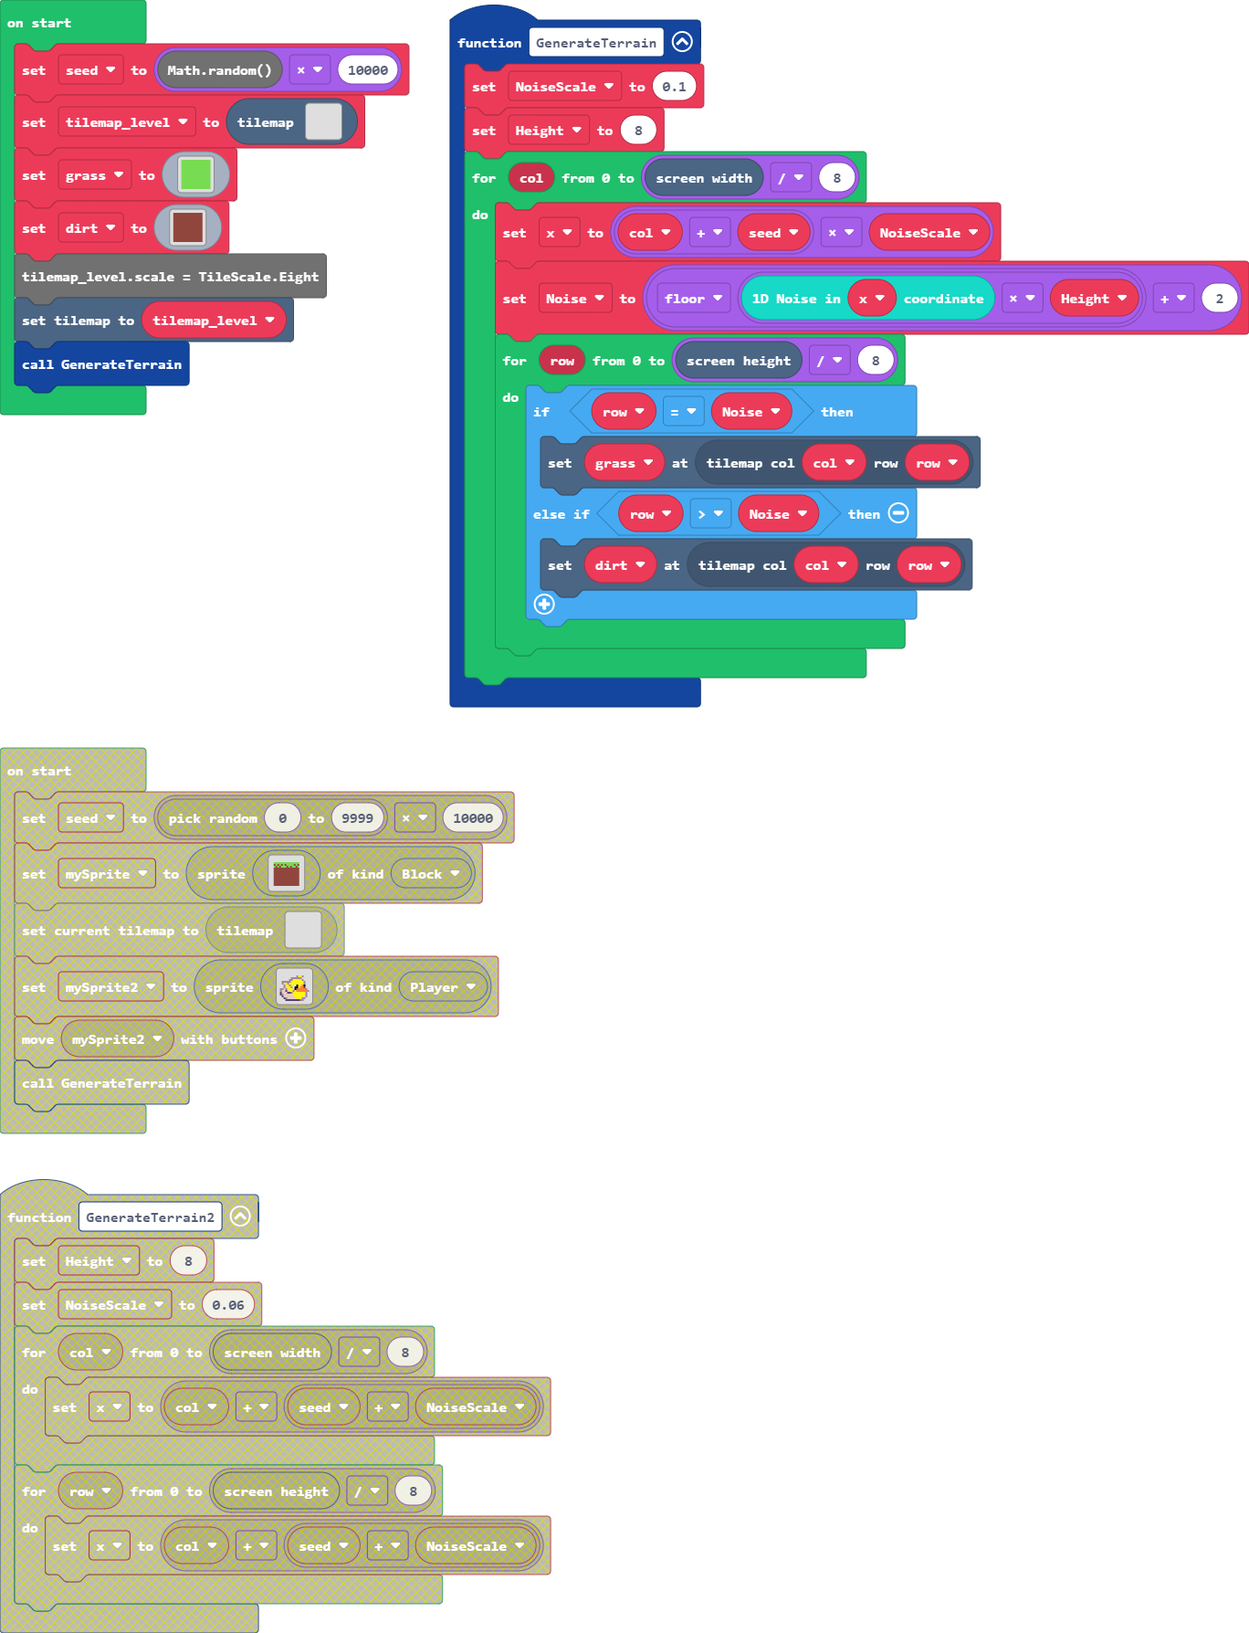
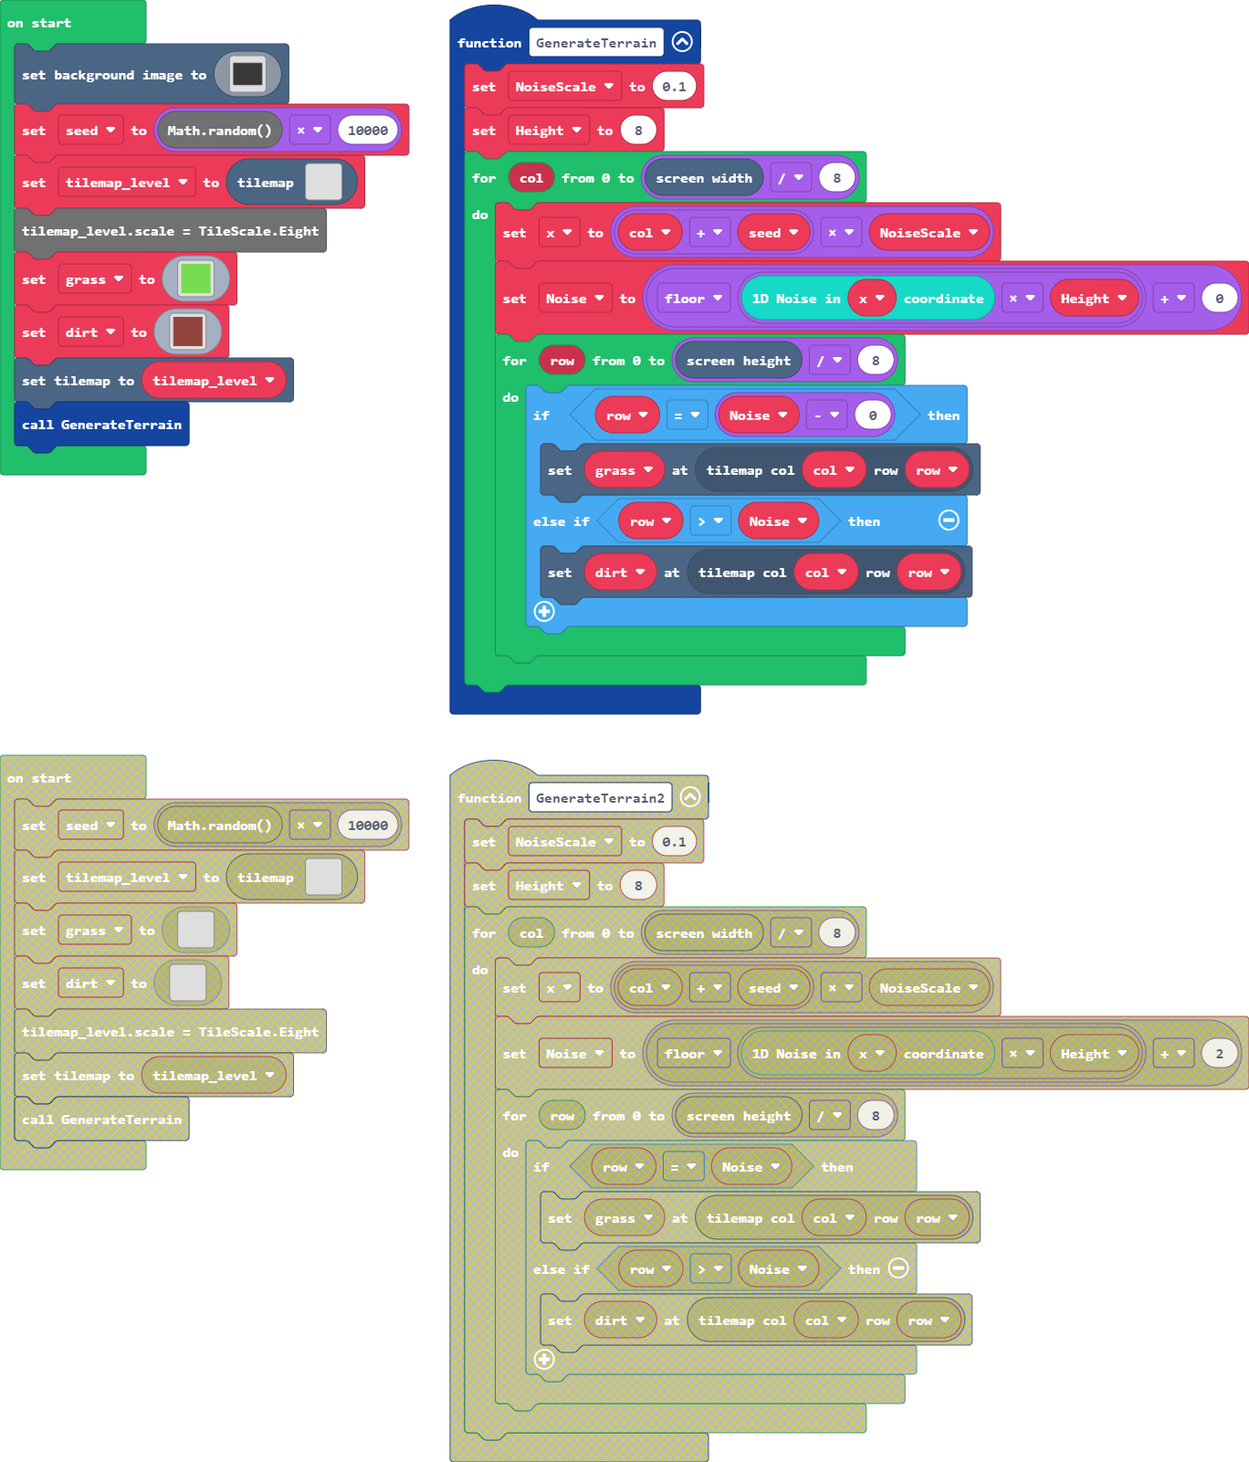
Nothing Done yet. Still some glitches

diff --git a/main.ts b/main.ts
@@ -6,9 +6,9 @@ function GenerateTerrain () {
     Height = 8
     for (let col = 0; col <= scene.screenWidth() / 8; col++) {
         x = (col + seed) * NoiseScale
-        Noise = Math.floor(perlinNoise.noise1d(x) * Height) + 2
+        Noise = Math.floor(perlinNoise.noise1d(x) * Height) + 0
         for (let row = 0; row <= scene.screenHeight() / 8; row++) {
-            if (row == Noise) {
+            if (row == Noise - 0) {
                 tiles.setTileAt(tiles.getTileLocation(col, row), grass)
             } else if (row > Noise) {
                 tiles.setTileAt(tiles.getTileLocation(col, row), dirt)
@@ -23,25 +23,140 @@ let NoiseScale = 0
 let dirt: Image = null
 let grass: Image = null
 let seed = 0
+scene.setBackgroundImage(img`
+    ffffffffffffffffffffffffffffffffffffffffffffffffffffffffffffffffffffffffffffffffffffffffffffffffffffffffffffffffffffffffffffffffffffffffffffffffffffffffffffffff
+    ffffffffffffffffffffffffffffffffffffffffffffffffffffffffffffffffffffffffffffffffffffffffffffffffffffffffffffffffffffffffffffffffffffffffffffffffffffffffffffffff
+    ffffffffffffffffffffffffffffffffffffffffffffffffffffffffffffffffffffffffffffffffffffffffffffffffffffffffffffffffffffffffffffffffffffffffffffffffffffffffffffffff
+    ffffffffffffffffffffffffffffffffffffffffffffffffffffffffffffffffffffffffffffffffffffffffffffffffffffffffffffffffffffffffffffffffffffffffffffffffffffffffffffffff
+    ffffffffffffffffffffffffffffffffffffffffffffffffffffffffffffffffffffffffffffffffffffffffffffffffffffffffffffffffffffffffffffffffffffffffffffffffffffffffffffffff
+    ffffffffffffffffffffffffffffffffffffffffffffffffffffffffffffffffffffffffffffffffffffffffffffffffffffffffffffffffffffffffffffffffffffffffffffffffffffffffffffffff
+    ffffffffffffffffffffffffffffffffffffffffffffffffffffffffffffffffffffffffffffffffffffffffffffffffffffffffffffffffffffffffffffffffffffffffffffffffffffffffffffffff
+    ffffffffffffffffffffffffffffffffffffffffffffffffffffffffffffffffffffffffffffffffffffffffffffffffffffffffffffffffffffffffffffffffffffffffffffffffffffffffffffffff
+    ffffffffffffffffffffffffffffffffffffffffffffffffffffffffffffffffffffffffffffffffffffffffffffffffffffffffffffffffffffffffffffffffffffffffffffffffffffffffffffffff
+    ffffffffffffffffffffffffffffffffffffffffffffffffffffffffffffffffffffffffffffffffffffffffffffffffffffffffffffffffffffffffffffffffffffffffffffffffffffffffffffffff
+    ffffffffffffffffffffffffffffffffffffffffffffffffffffffffffffffffffffffffffffffffffffffffffffffffffffffffffffffffffffffffffffffffffffffffffffffffffffffffffffffff
+    ffffffffffffffffffffffffffffffffffffffffffffffffffffffffffffffffffffffffffffffffffffffffffffffffffffffffffffffffffffffffffffffffffffffffffffffffffffffffffffffff
+    ffffffffffffffffffffffffffffffffffffffffffffffffffffffffffffffffffffffffffffffffffffffffffffffffffffffffffffffffffffffffffffffffffffffffffffffffffffffffffffffff
+    ffffffffffffffffffffffffffffffffffffffffffffffffffffffffffffffffffffffffffffffffffffffffffffffffffffffffffffffffffffffffffffffffffffffffffffffffffffffffffffffff
+    ffffffffffffffffffffffffffffffffffffffffffffffffffffffffffffffffffffffffffffffffffffffffffffffffffffffffffffffffffffffffffffffffffffffffffffffffffffffffffffffff
+    ffffffffffffffffffffffffffffffffffffffffffffffffffffffffffffffffffffffffffffffffffffffffffffffffffffffffffffffffffffffffffffffffffffffffffffffffffffffffffffffff
+    ffffffffffffffffffffffffffffffffffffffffffffffffffffffffffffffffffffffffffffffffffffffffffffffffffffffffffffffffffffffffffffffffffffffffffffffffffffffffffffffff
+    ffffffffffffffffffffffffffffffffffffffffffffffffffffffffffffffffffffffffffffffffffffffffffffffffffffffffffffffffffffffffffffffffffffffffffffffffffffffffffffffff
+    ffffffffffffffffffffffffffffffffffffffffffffffffffffffffffffffffffffffffffffffffffffffffffffffffffffffffffffffffffffffffffffffffffffffffffffffffffffffffffffffff
+    ffffffffffffffffffffffffffffffffffffffffffffffffffffffffffffffffffffffffffffffffffffffffffffffffffffffffffffffffffffffffffffffffffffffffffffffffffffffffffffffff
+    ffffffffffffffffffffffffffffffffffffffffffffffffffffffffffffffffffffffffffffffffffffffffffffffffffffffffffffffffffffffffffffffffffffffffffffffffffffffffffffffff
+    ffffffffffffffffffffffffffffffffffffffffffffffffffffffffffffffffffffffffffffffffffffffffffffffffffffffffffffffffffffffffffffffffffffffffffffffffffffffffffffffff
+    ffffffffffffffffffffffffffffffffffffffffffffffffffffffffffffffffffffffffffffffffffffffffffffffffffffffffffffffffffffffffffffffffffffffffffffffffffffffffffffffff
+    ffffffffffffffffffffffffffffffffffffffffffffffffffffffffffffffffffffffffffffffffffffffffffffffffffffffffffffffffffffffffffffffffffffffffffffffffffffffffffffffff
+    ffffffffffffffffffffffffffffffffffffffffffffffffffffffffffffffffffffffffffffffffffffffffffffffffffffffffffffffffffffffffffffffffffffffffffffffffffffffffffffffff
+    ffffffffffffffffffffffffffffffffffffffffffffffffffffffffffffffffffffffffffffffffffffffffffffffffffffffffffffffffffffffffffffffffffffffffffffffffffffffffffffffff
+    ffffffffffffffffffffffffffffffffffffffffffffffffffffffffffffffffffffffffffffffffffffffffffffffffffffffffffffffffffffffffffffffffffffffffffffffffffffffffffffffff
+    ffffffffffffffffffffffffffffffffffffffffffffffffffffffffffffffffffffffffffffffffffffffffffffffffffffffffffffffffffffffffffffffffffffffffffffffffffffffffffffffff
+    ffffffffffffffffffffffffffffffffffffffffffffffffffffffffffffffffffffffffffffffffffffffffffffffffffffffffffffffffffffffffffffffffffffffffffffffffffffffffffffffff
+    ffffffffffffffffffffffffffffffffffffffffffffffffffffffffffffffffffffffffffffffffffffffffffffffffffffffffffffffffffffffffffffffffffffffffffffffffffffffffffffffff
+    ffffffffffffffffffffffffffffffffffffffffffffffffffffffffffffffffffffffffffffffffffffffffffffffffffffffffffffffffffffffffffffffffffffffffffffffffffffffffffffffff
+    ffffffffffffffffffffffffffffffffffffffffffffffffffffffffffffffffffffffffffffffffffffffffffffffffffffffffffffffffffffffffffffffffffffffffffffffffffffffffffffffff
+    ffffffffffffffffffffffffffffffffffffffffffffffffffffffffffffffffffffffffffffffffffffffffffffffffffffffffffffffffffffffffffffffffffffffffffffffffffffffffffffffff
+    ffffffffffffffffffffffffffffffffffffffffffffffffffffffffffffffffffffffffffffffffffffffffffffffffffffffffffffffffffffffffffffffffffffffffffffffffffffffffffffffff
+    ffffffffffffffffffffffffffffffffffffffffffffffffffffffffffffffffffffffffffffffffffffffffffffffffffffffffffffffffffffffffffffffffffffffffffffffffffffffffffffffff
+    ffffffffffffffffffffffffffffffffffffffffffffffffffffffffffffffffffffffffffffffffffffffffffffffffffffffffffffffffffffffffffffffffffffffffffffffffffffffffffffffff
+    ffffffffffffffffffffffffffffffffffffffffffffffffffffffffffffffffffffffffffffffffffffffffffffffffffffffffffffffffffffffffffffffffffffffffffffffffffffffffffffffff
+    ffffffffffffffffffffffffffffffffffffffffffffffffffffffffffffffffffffffffffffffffffffffffffffffffffffffffffffffffffffffffffffffffffffffffffffffffffffffffffffffff
+    ffffffffffffffffffffffffffffffffffffffffffffffffffffffffffffffffffffffffffffffffffffffffffffffffffffffffffffffffffffffffffffffffffffffffffffffffffffffffffffffff
+    ffffffffffffffffffffffffffffffffffffffffffffffffffffffffffffffffffffffffffffffffffffffffffffffffffffffffffffffffffffffffffffffffffffffffffffffffffffffffffffffff
+    ffffffffffffffffffffffffffffffffffffffffffffffffffffffffffffffffffffffffffffffffffffffffffffffffffffffffffffffffffffffffffffffffffffffffffffffffffffffffffffffff
+    ffffffffffffffffffffffffffffffffffffffffffffffffffffffffffffffffffffffffffffffffffffffffffffffffffffffffffffffffffffffffffffffffffffffffffffffffffffffffffffffff
+    ffffffffffffffffffffffffffffffffffffffffffffffffffffffffffffffffffffffffffffffffffffffffffffffffffffffffffffffffffffffffffffffffffffffffffffffffffffffffffffffff
+    ffffffffffffffffffffffffffffffffffffffffffffffffffffffffffffffffffffffffffffffffffffffffffffffffffffffffffffffffffffffffffffffffffffffffffffffffffffffffffffffff
+    ffffffffffffffffffffffffffffffffffffffffffffffffffffffffffffffffffffffffffffffffffffffffffffffffffffffffffffffffffffffffffffffffffffffffffffffffffffffffffffffff
+    ffffffffffffffffffffffffffffffffffffffffffffffffffffffffffffffffffffffffffffffffffffffffffffffffffffffffffffffffffffffffffffffffffffffffffffffffffffffffffffffff
+    ffffffffffffffffffffffffffffffffffffffffffffffffffffffffffffffffffffffffffffffffffffffffffffffffffffffffffffffffffffffffffffffffffffffffffffffffffffffffffffffff
+    ffffffffffffffffffffffffffffffffffffffffffffffffffffffffffffffffffffffffffffffffffffffffffffffffffffffffffffffffffffffffffffffffffffffffffffffffffffffffffffffff
+    ffffffffffffffffffffffffffffffffffffffffffffffffffffffffffffffffffffffffffffffffffffffffffffffffffffffffffffffffffffffffffffffffffffffffffffffffffffffffffffffff
+    ffffffffffffffffffffffffffffffffffffffffffffffffffffffffffffffffffffffffffffffffffffffffffffffffffffffffffffffffffffffffffffffffffffffffffffffffffffffffffffffff
+    ffffffffffffffffffffffffffffffffffffffffffffffffffffffffffffffffffffffffffffffffffffffffffffffffffffffffffffffffffffffffffffffffffffffffffffffffffffffffffffffff
+    ffffffffffffffffffffffffffffffffffffffffffffffffffffffffffffffffffffffffffffffffffffffffffffffffffffffffffffffffffffffffffffffffffffffffffffffffffffffffffffffff
+    ffffffffffffffffffffffffffffffffffffffffffffffffffffffffffffffffffffffffffffffffffffffffffffffffffffffffffffffffffffffffffffffffffffffffffffffffffffffffffffffff
+    ffffffffffffffffffffffffffffffffffffffffffffffffffffffffffffffffffffffffffffffffffffffffffffffffffffffffffffffffffffffffffffffffffffffffffffffffffffffffffffffff
+    ffffffffffffffffffffffffffffffffffffffffffffffffffffffffffffffffffffffffffffffffffffffffffffffffffffffffffffffffffffffffffffffffffffffffffffffffffffffffffffffff
+    ffffffffffffffffffffffffffffffffffffffffffffffffffffffffffffffffffffffffffffffffffffffffffffffffffffffffffffffffffffffffffffffffffffffffffffffffffffffffffffffff
+    ffffffffffffffffffffffffffffffffffffffffffffffffffffffffffffffffffffffffffffffffffffffffffffffffffffffffffffffffffffffffffffffffffffffffffffffffffffffffffffffff
+    ffffffffffffffffffffffffffffffffffffffffffffffffffffffffffffffffffffffffffffffffffffffffffffffffffffffffffffffffffffffffffffffffffffffffffffffffffffffffffffffff
+    ffffffffffffffffffffffffffffffffffffffffffffffffffffffffffffffffffffffffffffffffffffffffffffffffffffffffffffffffffffffffffffffffffffffffffffffffffffffffffffffff
+    ffffffffffffffffffffffffffffffffffffffffffffffffffffffffffffffffffffffffffffffffffffffffffffffffffffffffffffffffffffffffffffffffffffffffffffffffffffffffffffffff
+    ffffffffffffffffffffffffffffffffffffffffffffffffffffffffffffffffffffffffffffffffffffffffffffffffffffffffffffffffffffffffffffffffffffffffffffffffffffffffffffffff
+    ffffffffffffffffffffffffffffffffffffffffffffffffffffffffffffffffffffffffffffffffffffffffffffffffffffffffffffffffffffffffffffffffffffffffffffffffffffffffffffffff
+    ffffffffffffffffffffffffffffffffffffffffffffffffffffffffffffffffffffffffffffffffffffffffffffffffffffffffffffffffffffffffffffffffffffffffffffffffffffffffffffffff
+    ffffffffffffffffffffffffffffffffffffffffffffffffffffffffffffffffffffffffffffffffffffffffffffffffffffffffffffffffffffffffffffffffffffffffffffffffffffffffffffffff
+    ffffffffffffffffffffffffffffffffffffffffffffffffffffffffffffffffffffffffffffffffffffffffffffffffffffffffffffffffffffffffffffffffffffffffffffffffffffffffffffffff
+    ffffffffffffffffffffffffffffffffffffffffffffffffffffffffffffffffffffffffffffffffffffffffffffffffffffffffffffffffffffffffffffffffffffffffffffffffffffffffffffffff
+    ffffffffffffffffffffffffffffffffffffffffffffffffffffffffffffffffffffffffffffffffffffffffffffffffffffffffffffffffffffffffffffffffffffffffffffffffffffffffffffffff
+    ffffffffffffffffffffffffffffffffffffffffffffffffffffffffffffffffffffffffffffffffffffffffffffffffffffffffffffffffffffffffffffffffffffffffffffffffffffffffffffffff
+    ffffffffffffffffffffffffffffffffffffffffffffffffffffffffffffffffffffffffffffffffffffffffffffffffffffffffffffffffffffffffffffffffffffffffffffffffffffffffffffffff
+    ffffffffffffffffffffffffffffffffffffffffffffffffffffffffffffffffffffffffffffffffffffffffffffffffffffffffffffffffffffffffffffffffffffffffffffffffffffffffffffffff
+    ffffffffffffffffffffffffffffffffffffffffffffffffffffffffffffffffffffffffffffffffffffffffffffffffffffffffffffffffffffffffffffffffffffffffffffffffffffffffffffffff
+    ffffffffffffffffffffffffffffffffffffffffffffffffffffffffffffffffffffffffffffffffffffffffffffffffffffffffffffffffffffffffffffffffffffffffffffffffffffffffffffffff
+    ffffffffffffffffffffffffffffffffffffffffffffffffffffffffffffffffffffffffffffffffffffffffffffffffffffffffffffffffffffffffffffffffffffffffffffffffffffffffffffffff
+    ffffffffffffffffffffffffffffffffffffffffffffffffffffffffffffffffffffffffffffffffffffffffffffffffffffffffffffffffffffffffffffffffffffffffffffffffffffffffffffffff
+    ffffffffffffffffffffffffffffffffffffffffffffffffffffffffffffffffffffffffffffffffffffffffffffffffffffffffffffffffffffffffffffffffffffffffffffffffffffffffffffffff
+    ffffffffffffffffffffffffffffffffffffffffffffffffffffffffffffffffffffffffffffffffffffffffffffffffffffffffffffffffffffffffffffffffffffffffffffffffffffffffffffffff
+    ffffffffffffffffffffffffffffffffffffffffffffffffffffffffffffffffffffffffffffffffffffffffffffffffffffffffffffffffffffffffffffffffffffffffffffffffffffffffffffffff
+    ffffffffffffffffffffffffffffffffffffffffffffffffffffffffffffffffffffffffffffffffffffffffffffffffffffffffffffffffffffffffffffffffffffffffffffffffffffffffffffffff
+    ffffffffffffffffffffffffffffffffffffffffffffffffffffffffffffffffffffffffffffffffffffffffffffffffffffffffffffffffffffffffffffffffffffffffffffffffffffffffffffffff
+    ffffffffffffffffffffffffffffffffffffffffffffffffffffffffffffffffffffffffffffffffffffffffffffffffffffffffffffffffffffffffffffffffffffffffffffffffffffffffffffffff
+    ffffffffffffffffffffffffffffffffffffffffffffffffffffffffffffffffffffffffffffffffffffffffffffffffffffffffffffffffffffffffffffffffffffffffffffffffffffffffffffffff
+    ffffffffffffffffffffffffffffffffffffffffffffffffffffffffffffffffffffffffffffffffffffffffffffffffffffffffffffffffffffffffffffffffffffffffffffffffffffffffffffffff
+    ffffffffffffffffffffffffffffffffffffffffffffffffffffffffffffffffffffffffffffffffffffffffffffffffffffffffffffffffffffffffffffffffffffffffffffffffffffffffffffffff
+    ffffffffffffffffffffffffffffffffffffffffffffffffffffffffffffffffffffffffffffffffffffffffffffffffffffffffffffffffffffffffffffffffffffffffffffffffffffffffffffffff
+    ffffffffffffffffffffffffffffffffffffffffffffffffffffffffffffffffffffffffffffffffffffffffffffffffffffffffffffffffffffffffffffffffffffffffffffffffffffffffffffffff
+    ffffffffffffffffffffffffffffffffffffffffffffffffffffffffffffffffffffffffffffffffffffffffffffffffffffffffffffffffffffffffffffffffffffffffffffffffffffffffffffffff
+    ffffffffffffffffffffffffffffffffffffffffffffffffffffffffffffffffffffffffffffffffffffffffffffffffffffffffffffffffffffffffffffffffffffffffffffffffffffffffffffffff
+    ffffffffffffffffffffffffffffffffffffffffffffffffffffffffffffffffffffffffffffffffffffffffffffffffffffffffffffffffffffffffffffffffffffffffffffffffffffffffffffffff
+    ffffffffffffffffffffffffffffffffffffffffffffffffffffffffffffffffffffffffffffffffffffffffffffffffffffffffffffffffffffffffffffffffffffffffffffffffffffffffffffffff
+    ffffffffffffffffffffffffffffffffffffffffffffffffffffffffffffffffffffffffffffffffffffffffffffffffffffffffffffffffffffffffffffffffffffffffffffffffffffffffffffffff
+    ffffffffffffffffffffffffffffffffffffffffffffffffffffffffffffffffffffffffffffffffffffffffffffffffffffffffffffffffffffffffffffffffffffffffffffffffffffffffffffffff
+    ffffffffffffffffffffffffffffffffffffffffffffffffffffffffffffffffffffffffffffffffffffffffffffffffffffffffffffffffffffffffffffffffffffffffffffffffffffffffffffffff
+    ffffffffffffffffffffffffffffffffffffffffffffffffffffffffffffffffffffffffffffffffffffffffffffffffffffffffffffffffffffffffffffffffffffffffffffffffffffffffffffffff
+    ffffffffffffffffffffffffffffffffffffffffffffffffffffffffffffffffffffffffffffffffffffffffffffffffffffffffffffffffffffffffffffffffffffffffffffffffffffffffffffffff
+    ffffffffffffffffffffffffffffffffffffffffffffffffffffffffffffffffffffffffffffffffffffffffffffffffffffffffffffffffffffffffffffffffffffffffffffffffffffffffffffffff
+    ffffffffffffffffffffffffffffffffffffffffffffffffffffffffffffffffffffffffffffffffffffffffffffffffffffffffffffffffffffffffffffffffffffffffffffffffffffffffffffffff
+    ffffffffffffffffffffffffffffffffffffffffffffffffffffffffffffffffffffffffffffffffffffffffffffffffffffffffffffffffffffffffffffffffffffffffffffffffffffffffffffffff
+    ffffffffffffffffffffffffffffffffffffffffffffffffffffffffffffffffffffffffffffffffffffffffffffffffffffffffffffffffffffffffffffffffffffffffffffffffffffffffffffffff
+    ffffffffffffffffffffffffffffffffffffffffffffffffffffffffffffffffffffffffffffffffffffffffffffffffffffffffffffffffffffffffffffffffffffffffffffffffffffffffffffffff
+    ffffffffffffffffffffffffffffffffffffffffffffffffffffffffffffffffffffffffffffffffffffffffffffffffffffffffffffffffffffffffffffffffffffffffffffffffffffffffffffffff
+    ffffffffffffffffffffffffffffffffffffffffffffffffffffffffffffffffffffffffffffffffffffffffffffffffffffffffffffffffffffffffffffffffffffffffffffffffffffffffffffffff
+    ffffffffffffffffffffffffffffffffffffffffffffffffffffffffffffffffffffffffffffffffffffffffffffffffffffffffffffffffffffffffffffffffffffffffffffffffffffffffffffffff
+    ffffffffffffffffffffffffffffffffffffffffffffffffffffffffffffffffffffffffffffffffffffffffffffffffffffffffffffffffffffffffffffffffffffffffffffffffffffffffffffffff
+    ffffffffffffffffffffffffffffffffffffffffffffffffffffffffffffffffffffffffffffffffffffffffffffffffffffffffffffffffffffffffffffffffffffffffffffffffffffffffffffffff
+    ffffffffffffffffffffffffffffffffffffffffffffffffffffffffffffffffffffffffffffffffffffffffffffffffffffffffffffffffffffffffffffffffffffffffffffffffffffffffffffffff
+    ffffffffffffffffffffffffffffffffffffffffffffffffffffffffffffffffffffffffffffffffffffffffffffffffffffffffffffffffffffffffffffffffffffffffffffffffffffffffffffffff
+    ffffffffffffffffffffffffffffffffffffffffffffffffffffffffffffffffffffffffffffffffffffffffffffffffffffffffffffffffffffffffffffffffffffffffffffffffffffffffffffffff
+    ffffffffffffffffffffffffffffffffffffffffffffffffffffffffffffffffffffffffffffffffffffffffffffffffffffffffffffffffffffffffffffffffffffffffffffffffffffffffffffffff
+    ffffffffffffffffffffffffffffffffffffffffffffffffffffffffffffffffffffffffffffffffffffffffffffffffffffffffffffffffffffffffffffffffffffffffffffffffffffffffffffffff
+    ffffffffffffffffffffffffffffffffffffffffffffffffffffffffffffffffffffffffffffffffffffffffffffffffffffffffffffffffffffffffffffffffffffffffffffffffffffffffffffffff
+    ffffffffffffffffffffffffffffffffffffffffffffffffffffffffffffffffffffffffffffffffffffffffffffffffffffffffffffffffffffffffffffffffffffffffffffffffffffffffffffffff
+    ffffffffffffffffffffffffffffffffffffffffffffffffffffffffffffffffffffffffffffffffffffffffffffffffffffffffffffffffffffffffffffffffffffffffffffffffffffffffffffffff
+    ffffffffffffffffffffffffffffffffffffffffffffffffffffffffffffffffffffffffffffffffffffffffffffffffffffffffffffffffffffffffffffffffffffffffffffffffffffffffffffffff
+    ffffffffffffffffffffffffffffffffffffffffffffffffffffffffffffffffffffffffffffffffffffffffffffffffffffffffffffffffffffffffffffffffffffffffffffffffffffffffffffffff
+    ffffffffffffffffffffffffffffffffffffffffffffffffffffffffffffffffffffffffffffffffffffffffffffffffffffffffffffffffffffffffffffffffffffffffffffffffffffffffffffffff
+    ffffffffffffffffffffffffffffffffffffffffffffffffffffffffffffffffffffffffffffffffffffffffffffffffffffffffffffffffffffffffffffffffffffffffffffffffffffffffffffffff
+    ffffffffffffffffffffffffffffffffffffffffffffffffffffffffffffffffffffffffffffffffffffffffffffffffffffffffffffffffffffffffffffffffffffffffffffffffffffffffffffffff
+    ffffffffffffffffffffffffffffffffffffffffffffffffffffffffffffffffffffffffffffffffffffffffffffffffffffffffffffffffffffffffffffffffffffffffffffffffffffffffffffffff
+    ffffffffffffffffffffffffffffffffffffffffffffffffffffffffffffffffffffffffffffffffffffffffffffffffffffffffffffffffffffffffffffffffffffffffffffffffffffffffffffffff
+    ffffffffffffffffffffffffffffffffffffffffffffffffffffffffffffffffffffffffffffffffffffffffffffffffffffffffffffffffffffffffffffffffffffffffffffffffffffffffffffffff
+    `)
 seed = Math.random() * 10000
 let tilemap_level = tilemap`level1`
+tilemap_level.scale = TileScale.Eight
 grass = img`
-    7 7 7 7 7 7 7 7 7 7 7 7 7 7 7 7 
-    7 7 7 7 7 7 7 7 7 7 7 7 7 7 7 7 
-    7 7 7 7 7 7 7 7 7 7 7 7 7 7 7 7 
-    7 7 7 7 7 7 7 7 7 7 7 7 7 7 7 7 
-    7 7 7 7 7 7 7 7 7 7 7 7 7 7 7 7 
-    7 7 7 7 7 7 7 7 7 7 7 7 7 7 7 7 
-    7 7 7 7 7 7 7 7 7 7 7 7 7 7 7 7 
-    7 7 7 7 7 7 7 7 7 7 7 7 7 7 7 7 
-    7 7 7 7 7 7 7 7 7 7 7 7 7 7 7 7 
-    7 7 7 7 7 7 7 7 7 7 7 7 7 7 7 7 
-    7 7 7 7 7 7 7 7 7 7 7 7 7 7 7 7 
-    7 7 7 7 7 7 7 7 7 7 7 7 7 7 7 7 
-    7 7 7 7 7 7 7 7 7 7 7 7 7 7 7 7 
-    7 7 7 7 7 7 7 7 7 7 7 7 7 7 7 7 
-    7 7 7 7 7 7 7 7 7 7 7 7 7 7 7 7 
-    7 7 7 7 7 7 7 7 7 7 7 7 7 7 7 7 
+    7 7 7 7 7 7 7 7 
+    7 7 7 7 7 7 7 7 
+    7 7 7 7 7 7 7 7 
+    7 7 7 7 7 7 7 7 
+    7 7 7 7 7 7 7 7 
+    7 7 7 7 7 7 7 7 
+    7 7 7 7 7 7 7 7 
+    7 7 7 7 7 7 7 7 
     `
 dirt = img`
     e e e e e e e e e e e e e e e e 
@@ -61,6 +176,5 @@ dirt = img`
     e e e e e e e e e e e e e e e e 
     e e e e e e e e e e e e e e e e 
     `
-tilemap_level.scale = TileScale.Eight
 tiles.setCurrentTilemap(tilemap_level)
 GenerateTerrain()

diff --git a/tilemap.g.ts b/tilemap.g.ts
@@ -2,6 +2,8 @@
 namespace myTiles {
     //% fixedInstance jres blockIdentity=images._tile
     export const transparency16 = image.ofBuffer(hex``);
+    //% fixedInstance jres blockIdentity=images._tile
+    export const tile1 = image.ofBuffer(hex``);
 
     helpers._registerFactory("tilemap", function(name: string) {
         switch(helpers.stringTrim(name)) {
@@ -164,6 +166,7 @@ namespace myTiles {
     helpers._registerFactory("tile", function(name: string) {
         switch(helpers.stringTrim(name)) {
             case "transparency16":return transparency16;
+            case "tile1":return tile1;
         }
         return null;
     })
